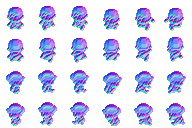
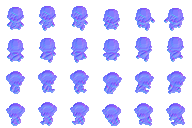
Add more normal maps
- Auto enter webgl mode on start
- Enable soft light

diff --git a/src/Game/index.js b/src/Game/index.js
@@ -127,7 +127,7 @@ export default class Game {
       map: "Town",
       x: 168, y: 96,
       width: 32, height: 32,
-      soft: false,
+      soft: true,
       color: "#FFFFFF"
     }));
 
@@ -141,7 +141,7 @@ export default class Game {
       }
     }));
 
-    this.engine.addEntity(new player({ name: "Merlin", map: "Town", x: 160, y: 144, sprite: "assets/img/85.png", width: 16, height: 16, collidable: true, shadowY: -3,
+    this.engine.addEntity(new player({ name: "Merlin", map: "Town", x: 160, y: 144, sprite: "assets/img/85.png", width: 16, height: 16, collidable: true, shadowY: -3, normal: true,
       onAction: {
         EngelScript: `
           if (trigger.facing == 2 || trigger.facing == 3) {
@@ -155,7 +155,7 @@ export default class Game {
       }
     }));
 
-    this.engine.addEntity(new player({ name: "Merlin2", map: "Town", x: 136, y: 120, sprite: "assets/img/85.png", width: 16, height: 16, collidable: true, shadowY: -3,
+    this.engine.addEntity(new player({ name: "Merlin2", map: "Town", x: 136, y: 120, sprite: "assets/img/85.png", width: 16, height: 16, collidable: true, shadowY: -3, normal: true,
       onCollide: {
         EngelScript: `
           kernel.notify(this, trigger.name);
@@ -182,7 +182,8 @@ export default class Game {
           kernel.notify(this, ":p");
           trigger.leader.faceEntity(trigger);
         `
-      }
+      },
+      normal: true
     }));
 
     this.engine.addEntity(new player({
@@ -195,7 +196,7 @@ export default class Game {
 
     if (OFFLINE_MODE) {
       this.engine.addEntity(new player({
-        name: "Felix", map: "Town", x: 144, y: 152, sprite: "assets/img/0.png", width: 16, height: 16, isLocalPlayer: true, collidable: true,
+        name: "Felix", map: "Town", x: 144, y: 152, sprite: "assets/img/0.png", width: 16, height: 16, isLocalPlayer: true, collidable: true, normal: true,
         onJump: (entity, map) => {
           if (entity.leader) {
             setTimeout(() => map.instance.notify(entity.leader, " :3 "), 250);

diff --git a/src/Game/entities/Light/index.js b/src/Game/entities/Light/index.js
@@ -49,7 +49,6 @@ export class Light extends MapEntity {
    */
   processColor(color) {
     let cString = color[0] === "#" ? color.substr(1) : color;
-    console.log(cString);
     return (
       math.hexToRGB(cString)
     );

diff --git a/src/cfg.js b/src/cfg.js
@@ -96,7 +96,7 @@ export let DEV_MODE = true;
  * Debug mode
  * @type {Boolean}
  */
-export let DEBUG_MODE = true;
+export let DEBUG_MODE = false;
 
 /**
  * Offline mode
